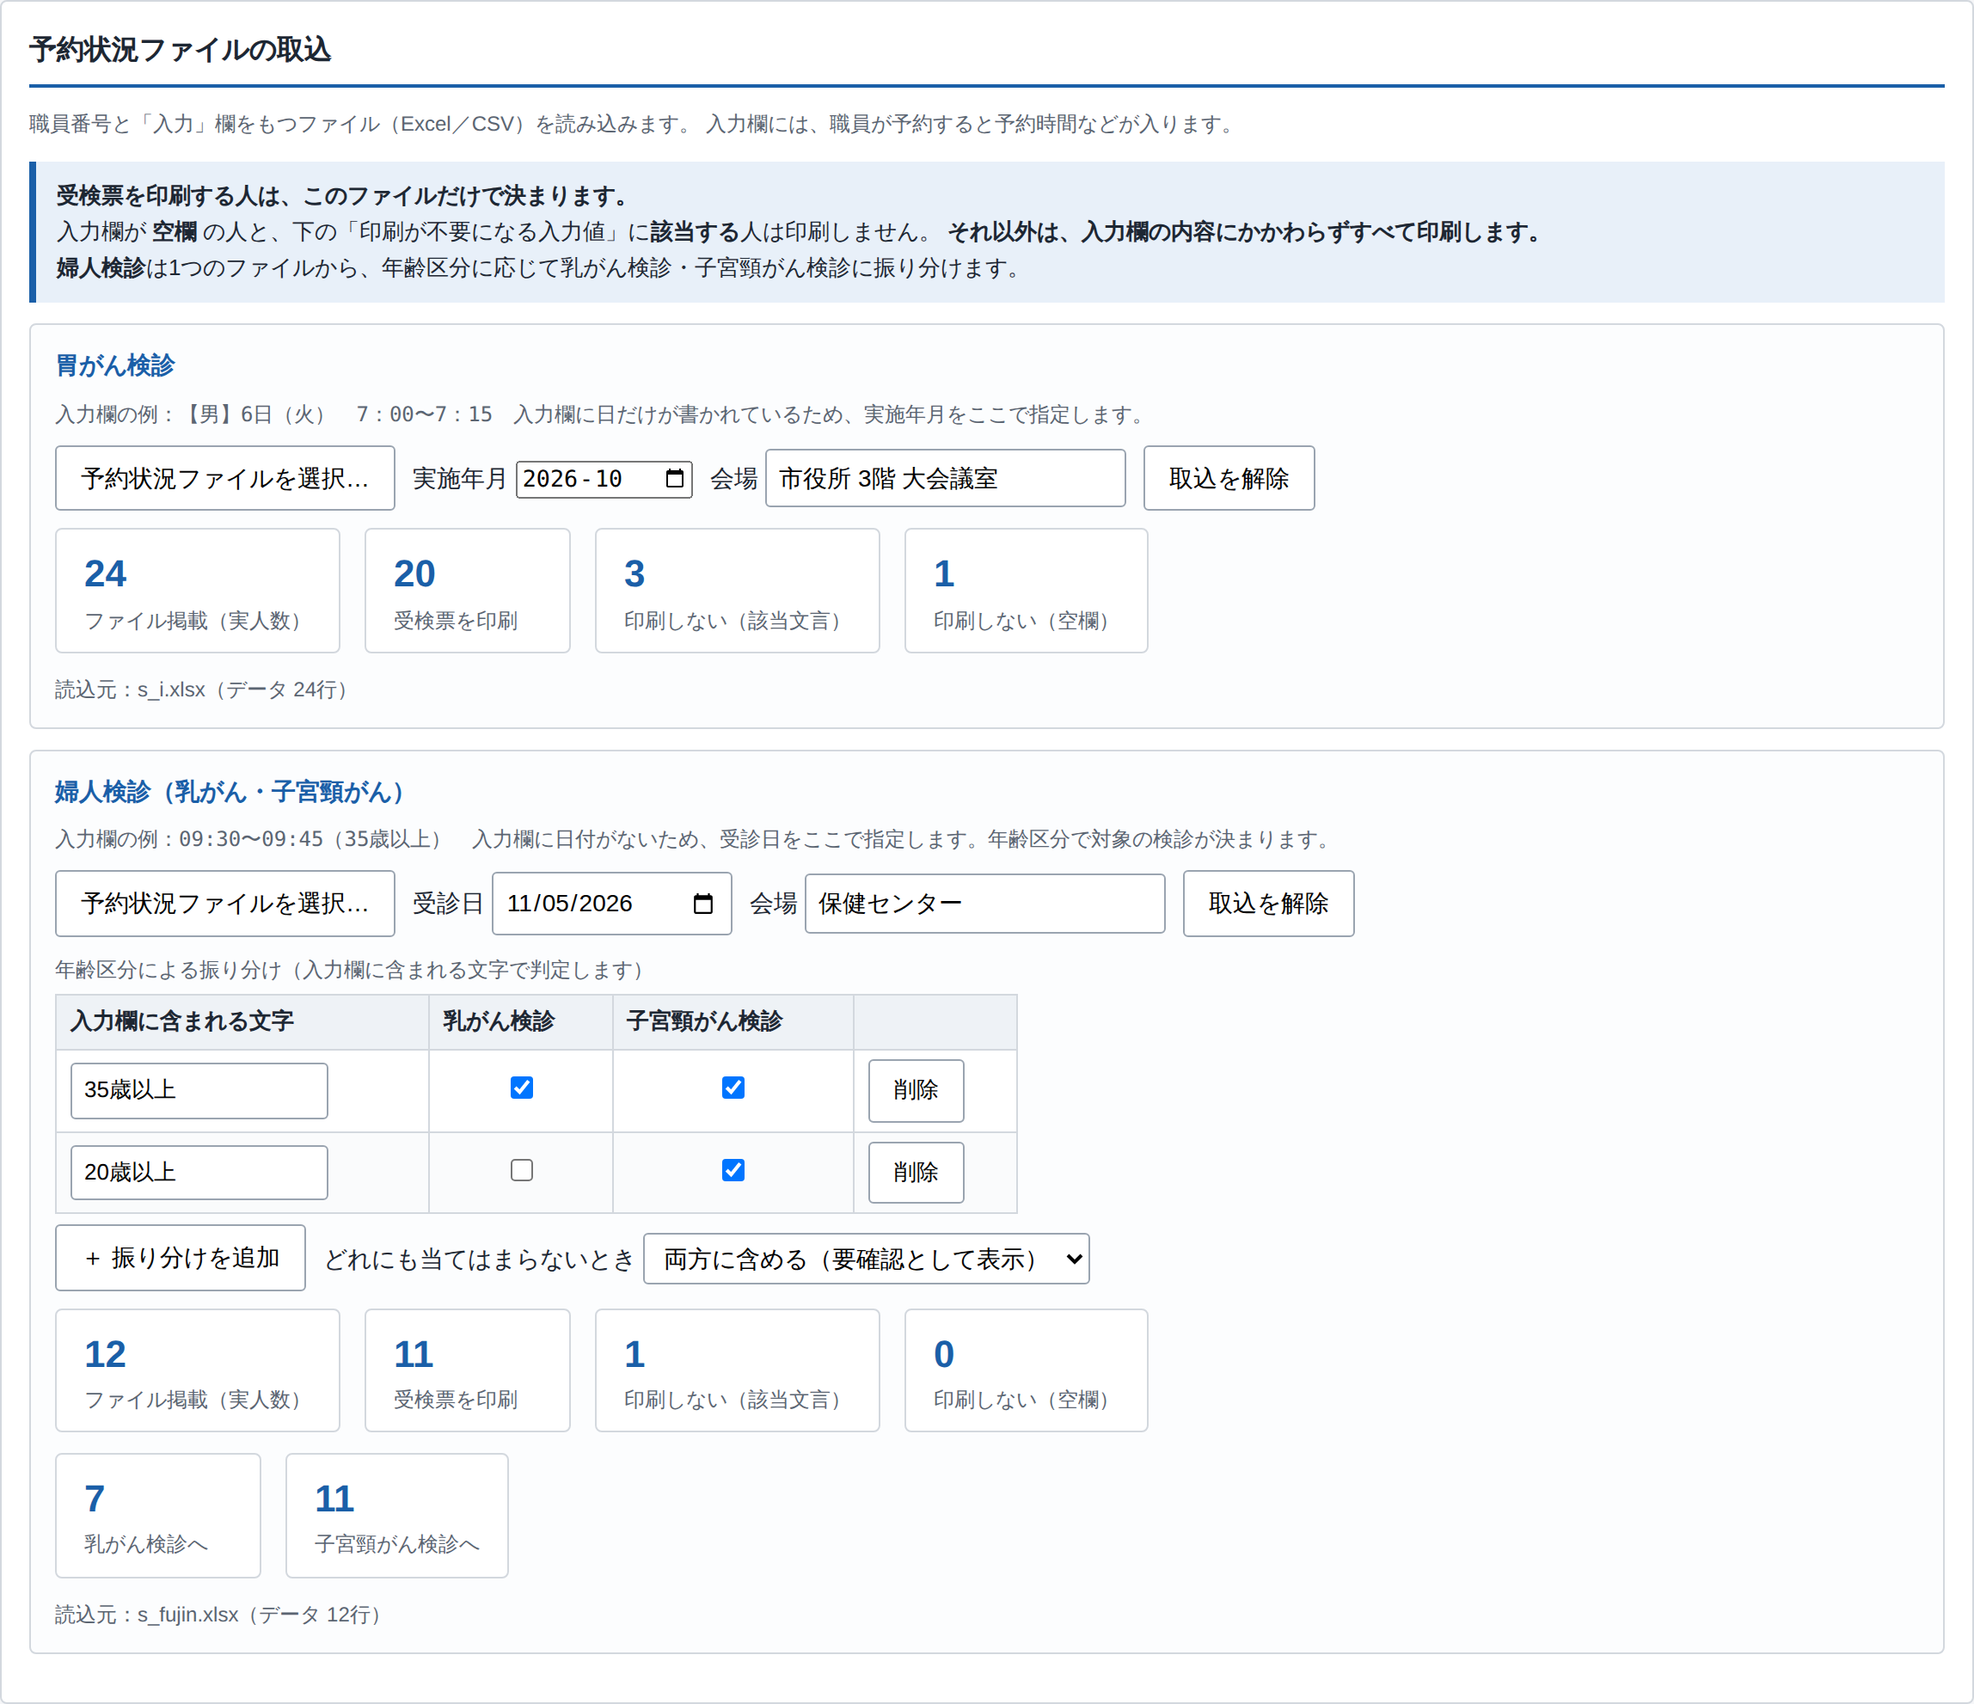
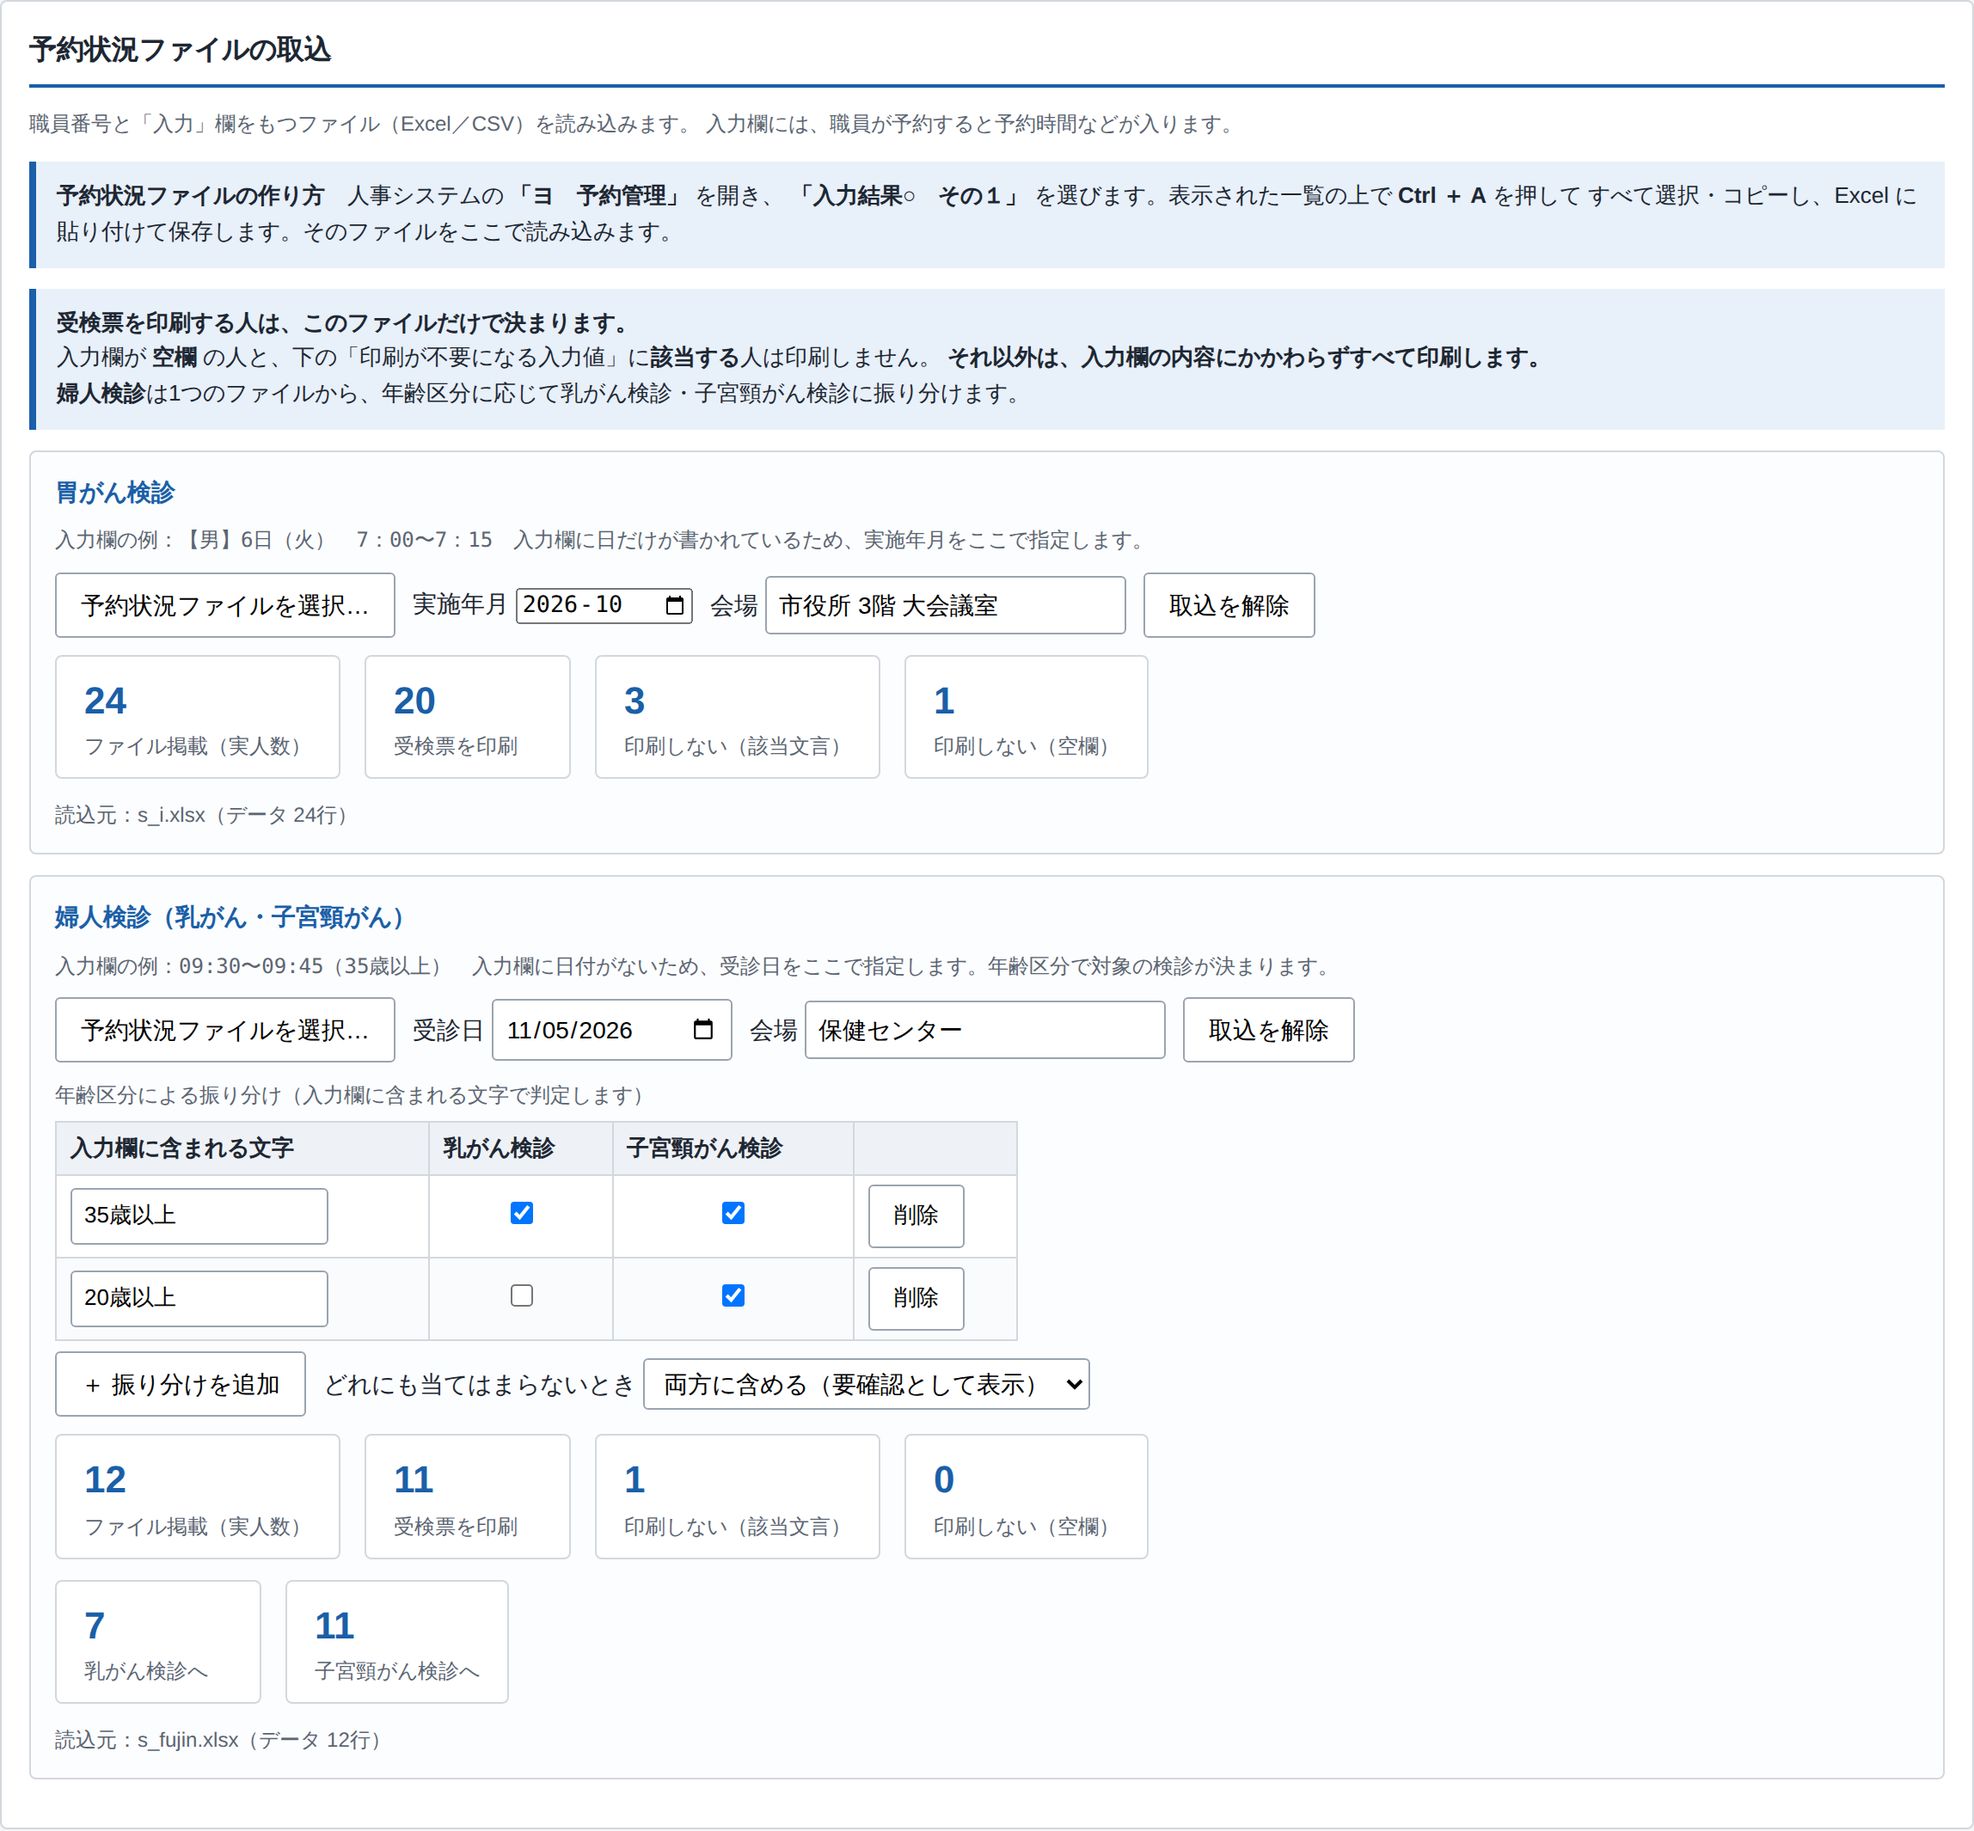
人事システムからのファイルの作り方を使い方に追記し、運用上の注意を見直した
職員名簿と予約状況ファイルを人事システムから取り出す手順を、使い方タブと
READMEに記載した。あわせて、名簿の読込タブと予約状況の取込タブにも
同じ手順を短く載せ、使い方タブを開かずに作業できるようにした。

- 職員名簿   画面左上で「在職」「写真無」「詳細」を選んで検索し、
             一覧を Ctrl＋A で全選択してExcelに貼り付ける
- 予約状況   「ヨ　予約管理」の「入力結果○　その１」を選び、
             一覧を Ctrl＋A で全選択してExcelに貼り付ける

運用上の注意を、現行のAccessとの並走を求める内容から、印刷後の確認を
求める内容に改めた。対象者一覧で人数と内訳を確かめ、印刷した束の枚数と
突き合わせる手順を示した。

個人情報の説明に、端末に保存しないという古い記述が残っていたため、
予約状況もこの端末に保存される旨に修正した。

Claude-Session: https://claude.ai/code/session_01LqhWD3ZtEM5S1eRzxMM65U

diff --git a/kenshin.html b/kenshin.html
@@ -351,6 +351,12 @@ table.grid tbody tr:nth-child(even){background:#fafbfc}
       <span class="hint">基準日時点の満年齢で対象者を判定します（通常は年度末＝翌年3月31日）。</span>
     </div>
 
+    <div class="info" style="margin-top:14px">
+      <strong>名簿ファイルの作り方</strong>　人事システムの画面左上で <strong>「在職」「写真無」「詳細」</strong> を選んで検索し、
+      表示された一覧の上で <strong>Ctrl ＋ A</strong> を押してすべて選択・コピーします。
+      それを Excel に貼り付けて保存し、そのファイルをここで読み込みます。
+    </div>
+
     <div class="row" style="margin-top:16px">
       <button class="btn primary" id="btnPickFile">名簿ファイルを選択…（Excel／CSV）</button>
       <input type="file" id="fileInput" accept=".xlsx,.xlsm,.csv,.txt" style="display:none">
@@ -420,6 +426,11 @@ table.grid tbody tr:nth-child(even){background:#fafbfc}
       職員番号と「入力」欄をもつファイル（Excel／CSV）を読み込みます。
       入力欄には、職員が予約すると予約時間などが入ります。
     </p>
+    <div class="info">
+      <strong>予約状況ファイルの作り方</strong>　人事システムの <strong>「ヨ　予約管理」</strong> を開き、
+      <strong>「入力結果○　その１」</strong> を選びます。表示された一覧の上で <strong>Ctrl ＋ A</strong> を押して
+      すべて選択・コピーし、Excel に貼り付けて保存します。そのファイルをここで読み込みます。
+    </div>
     <div class="info">
       <strong>受検票を印刷する人は、このファイルだけで決まります。</strong><br>
       入力欄が <strong>空欄</strong> の人と、下の「印刷が不要になる入力値」に<strong>該当する</strong>人は印刷しません。
@@ -613,10 +624,42 @@ table.grid tbody tr:nth-child(even){background:#fafbfc}
 <section class="page" id="p6">
   <div class="panel">
     <h2>使い方</h2>
-    <p class="hint">用意するのは<strong>職員名簿</strong>と<strong>予約状況ファイル</strong>の2つだけです。</p>
+    <p class="hint">用意するのは<strong>職員名簿</strong>と<strong>予約状況ファイル</strong>の2つだけです。どちらも人事システムから作ります。</p>
+
+    <h3>はじめに：2つのファイルを人事システムから作る</h3>
+    <table class="grid">
+      <thead><tr><th style="width:120px">ファイル</th><th>作り方</th></tr></thead>
+      <tbody>
+        <tr>
+          <td><strong>職員名簿</strong></td>
+          <td>
+            <ol style="margin:0;padding-left:20px">
+              <li>人事システムの画面左上で <strong>「在職」「写真無」「詳細」</strong> を選んで検索します。</li>
+              <li>表示された一覧の上で <strong>Ctrl ＋ A</strong> を押し、すべて選択してコピーします。</li>
+              <li>Excel に貼り付けて保存します。</li>
+            </ol>
+          </td>
+        </tr>
+        <tr>
+          <td><strong>予約状況</strong></td>
+          <td>
+            <ol style="margin:0;padding-left:20px">
+              <li>人事システムの <strong>「ヨ　予約管理」</strong> を開き、<strong>「入力結果○　その１」</strong> を選びます。</li>
+              <li>表示された一覧の上で <strong>Ctrl ＋ A</strong> を押し、すべて選択してコピーします。</li>
+              <li>Excel に貼り付けて保存します。</li>
+            </ol>
+          </td>
+        </tr>
+      </tbody>
+    </table>
+    <p class="hint">
+      貼り付けた Excel はそのまま読み込めます。列の並びや見出しが多少違っていても、読込後の画面で対応付けを直せます。
+    </p>
+
+    <h3>作業の流れ</h3>
     <ol>
-      <li><strong>名簿の読込</strong>　職員名簿（Excel／CSV）を読み込み、列の対応付けを確認します。</li>
-      <li><strong>予約状況の取込</strong>　検診ごとに予約状況ファイルを読み込み、職員番号の列と入力の列を指定して取り込みます。会場名もここで指定します。<br>
+      <li><strong>名簿の読込</strong>　上で作った職員名簿の Excel を読み込み、列の対応付けを確認します。</li>
+      <li><strong>予約状況の取込</strong>　胃がん検診・婦人検診それぞれの Excel を読み込み、職員番号の列と入力の列を指定して取り込みます。実施年月（または受診日）と会場もここで指定します。<br>
           取り込むと、確認が必要な件があればこの画面に表示されます。</li>
       <li><strong>対象者一覧</strong>　検診を選んで、受検票が印刷される人を確認します。辞退者などはここで個別に外せます。</li>
       <li><strong>様式レイアウト</strong>　初回のみ、協会の用紙に1枚テスト印刷して位置を確認します。合っていればそのままで構いません。</li>
@@ -677,8 +720,10 @@ table.grid tbody tr:nth-child(even){background:#fafbfc}
   <div class="panel">
     <h2>運用上の注意</h2>
     <div class="note">
-      <strong>初回は現行のAccessと並走させてください。</strong>
-      同じ名簿で両方から受検票を出力し、対象者と印字内容が一致することを確認してから切り替えることを強く推奨します。
+      <strong>印刷したら、対象者が正しく印刷されているか必ず確認してください。</strong>
+      「３. 対象者一覧」で検診ごとの人数と内訳を確かめ、印刷した束の枚数と突き合わせるのが確実です。
+      要確認の件がある場合は、その内容もあわせてご確認ください。<br>
+      現行の Access と並走させる必要はありません。
     </div>
     <div class="info">
       <strong>LGWAN接続系での動作について</strong><br>
@@ -700,8 +745,9 @@ table.grid tbody tr:nth-child(even){background:#fafbfc}
     <div class="note">
       <strong>予約状況ファイルの取扱い</strong><br>
       「受診しない」「他の受診機関で受診予定」といった入力欄の内容は、その職員の受診行動に関する情報です。
-      名簿と同様、端末には保存せずメモリ上でのみ処理していますが、
-      元のExcelファイルや出力したCSVの保存場所・アクセス権には十分ご注意ください。
+      職員名簿と同様、<strong>このパソコンのブラウザ内に保存されます</strong>（外部へは送信されません）。
+      年度の作業が終わったら「保存データを消去」を押し、
+      元のExcelファイルや出力したCSVの保存場所・アクセス権とあわせてご注意ください。
     </div>
   </div>
 

diff --git a/README.md b/README.md
@@ -39,9 +39,16 @@
 
 ### 用意するのは 2 つのファイルだけです
 
-**職員名簿** と **予約状況ファイル**（検診ごと）。
+どちらも人事システムから作ります。
 
-名簿の読込 → 予約状況の取込 → 印刷。
+| ファイル | 作り方 |
+|---|---|
+| **職員名簿** | 人事システムの画面左上で **「在職」「写真無」「詳細」** を選んで検索 → 表示された一覧で **Ctrl ＋ A** →  Excel に貼り付けて保存 |
+| **予約状況** | 人事システムの **「ヨ　予約管理」** → **「入力結果○　その１」** を選択 → **Ctrl ＋ A** → Excel に貼り付けて保存 |
+
+貼り付けた Excel はそのまま読み込めます。列の並びや見出しが多少違っていても、読込後の画面で対応付けを直せます。
+
+名簿の読込 → 予約状況の取込 → 対象者一覧で確認 → 印刷。
 **受検票を印刷する人は予約状況ファイルだけで決まります。** 年齢や性別による絞り込みは行いません。
 
 ---
@@ -244,6 +251,7 @@ PDF として保存する場合は、印刷ダイアログの送信先で「PDF 
 - `docs/preview_layout.png` … 様式レイアウトの調整画面
 - `docs/preview_nyuryoku.png` … 予約状況の取込画面
 - `docs/preview_target.png` … 対象者一覧（検診ごとの確認画面）
+- `docs/preview_tsukaikata.png` … 使い方（人事システムからのファイルの作り方）
 - `docs/preview_ticket.png` … A4 自前様式の受検票
 - `docs/preview_kagami.png` … 所属別 配布鑑
 - `docs/印刷プレビュー_受検票サンプル.pdf` … A4 自前様式で出力した全 17 ページ
@@ -278,8 +286,10 @@ PDF として保存する場合は、印刷ダイアログの送信先で「PDF 
 0. **様式の位置合わせ**　`docs/様式レイアウトの調整手順.md` に沿って、協会の用紙に1枚テスト印刷してください。
 1. **情報政策担当への確認**　`docs/情報政策担当への確認事項.md` のチェックリストをご利用ください。
    庁内で自作ツールを業務利用する場合、情報資産としての登録など所定の手続きが必要な場合があります。
-2. **現行 Access との並走**　初回は必ず同じ名簿で両方から受検票を出力し、
-   **対象者と印字内容が一致すること**を確認してから切り替えてください。
+2. **印刷後の確認**　**印刷したら、対象者が正しく印刷されているか必ず確認してください。**
+   「３. 対象者一覧」で検診ごとの人数と内訳を確かめ、印刷した束の枚数と突き合わせるのが確実です。
+   要確認の件がある場合は、その内容もあわせて確認してください。
+   現行の Access と並走させる必要はありません。
 3. **1 検診から始める**　まず1検診だけで通しで運用し、問題がなければ残りへ展開する進め方を推奨します。
 
 ---
